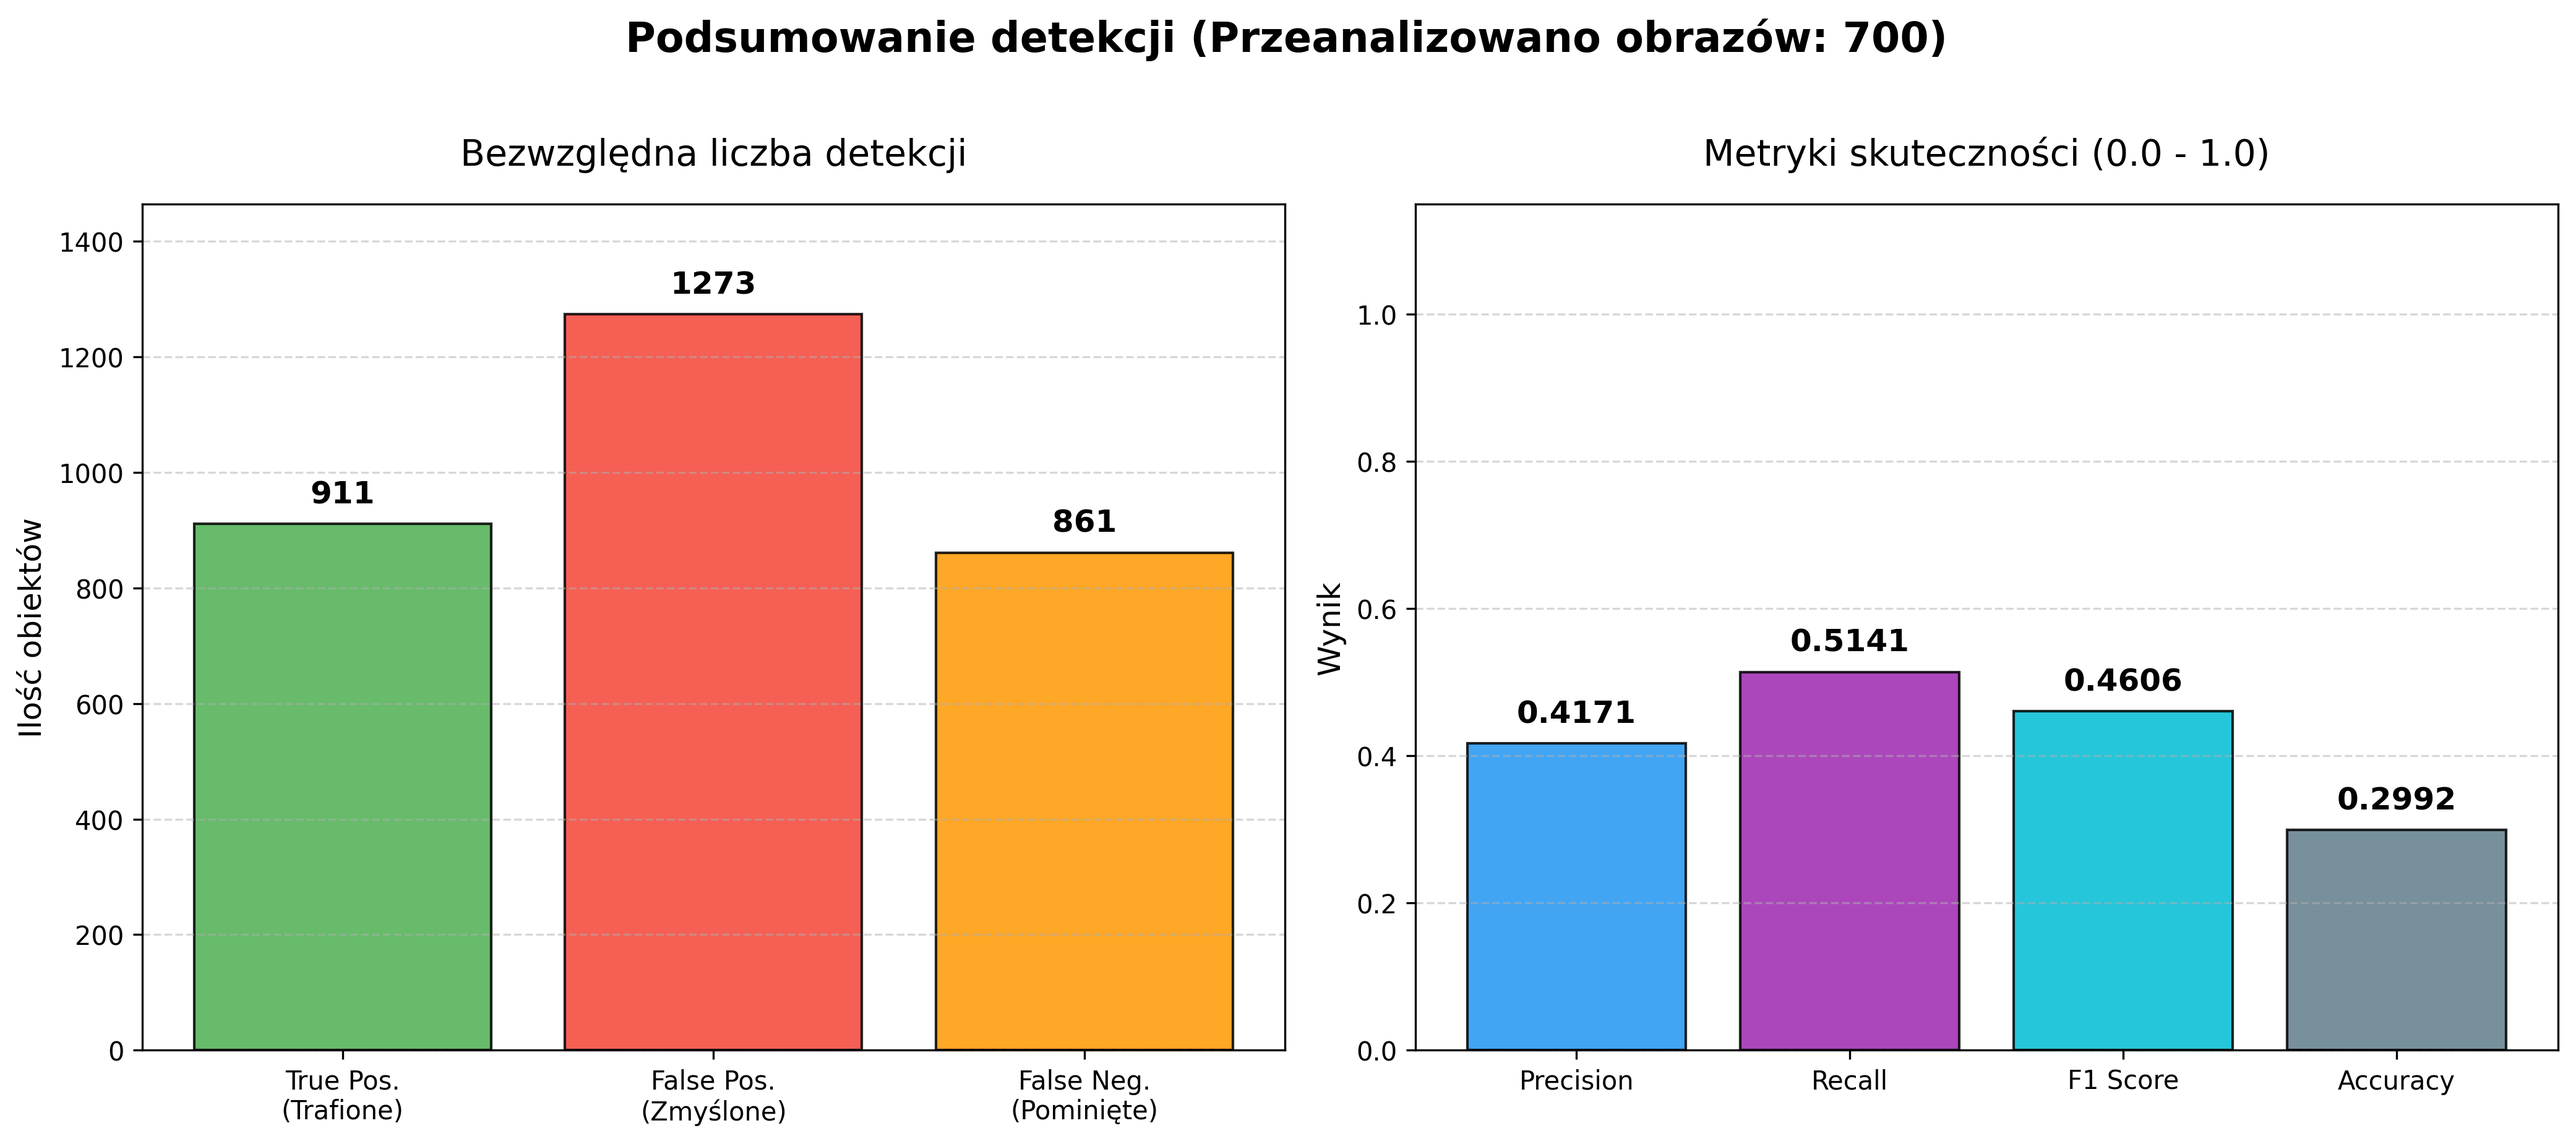
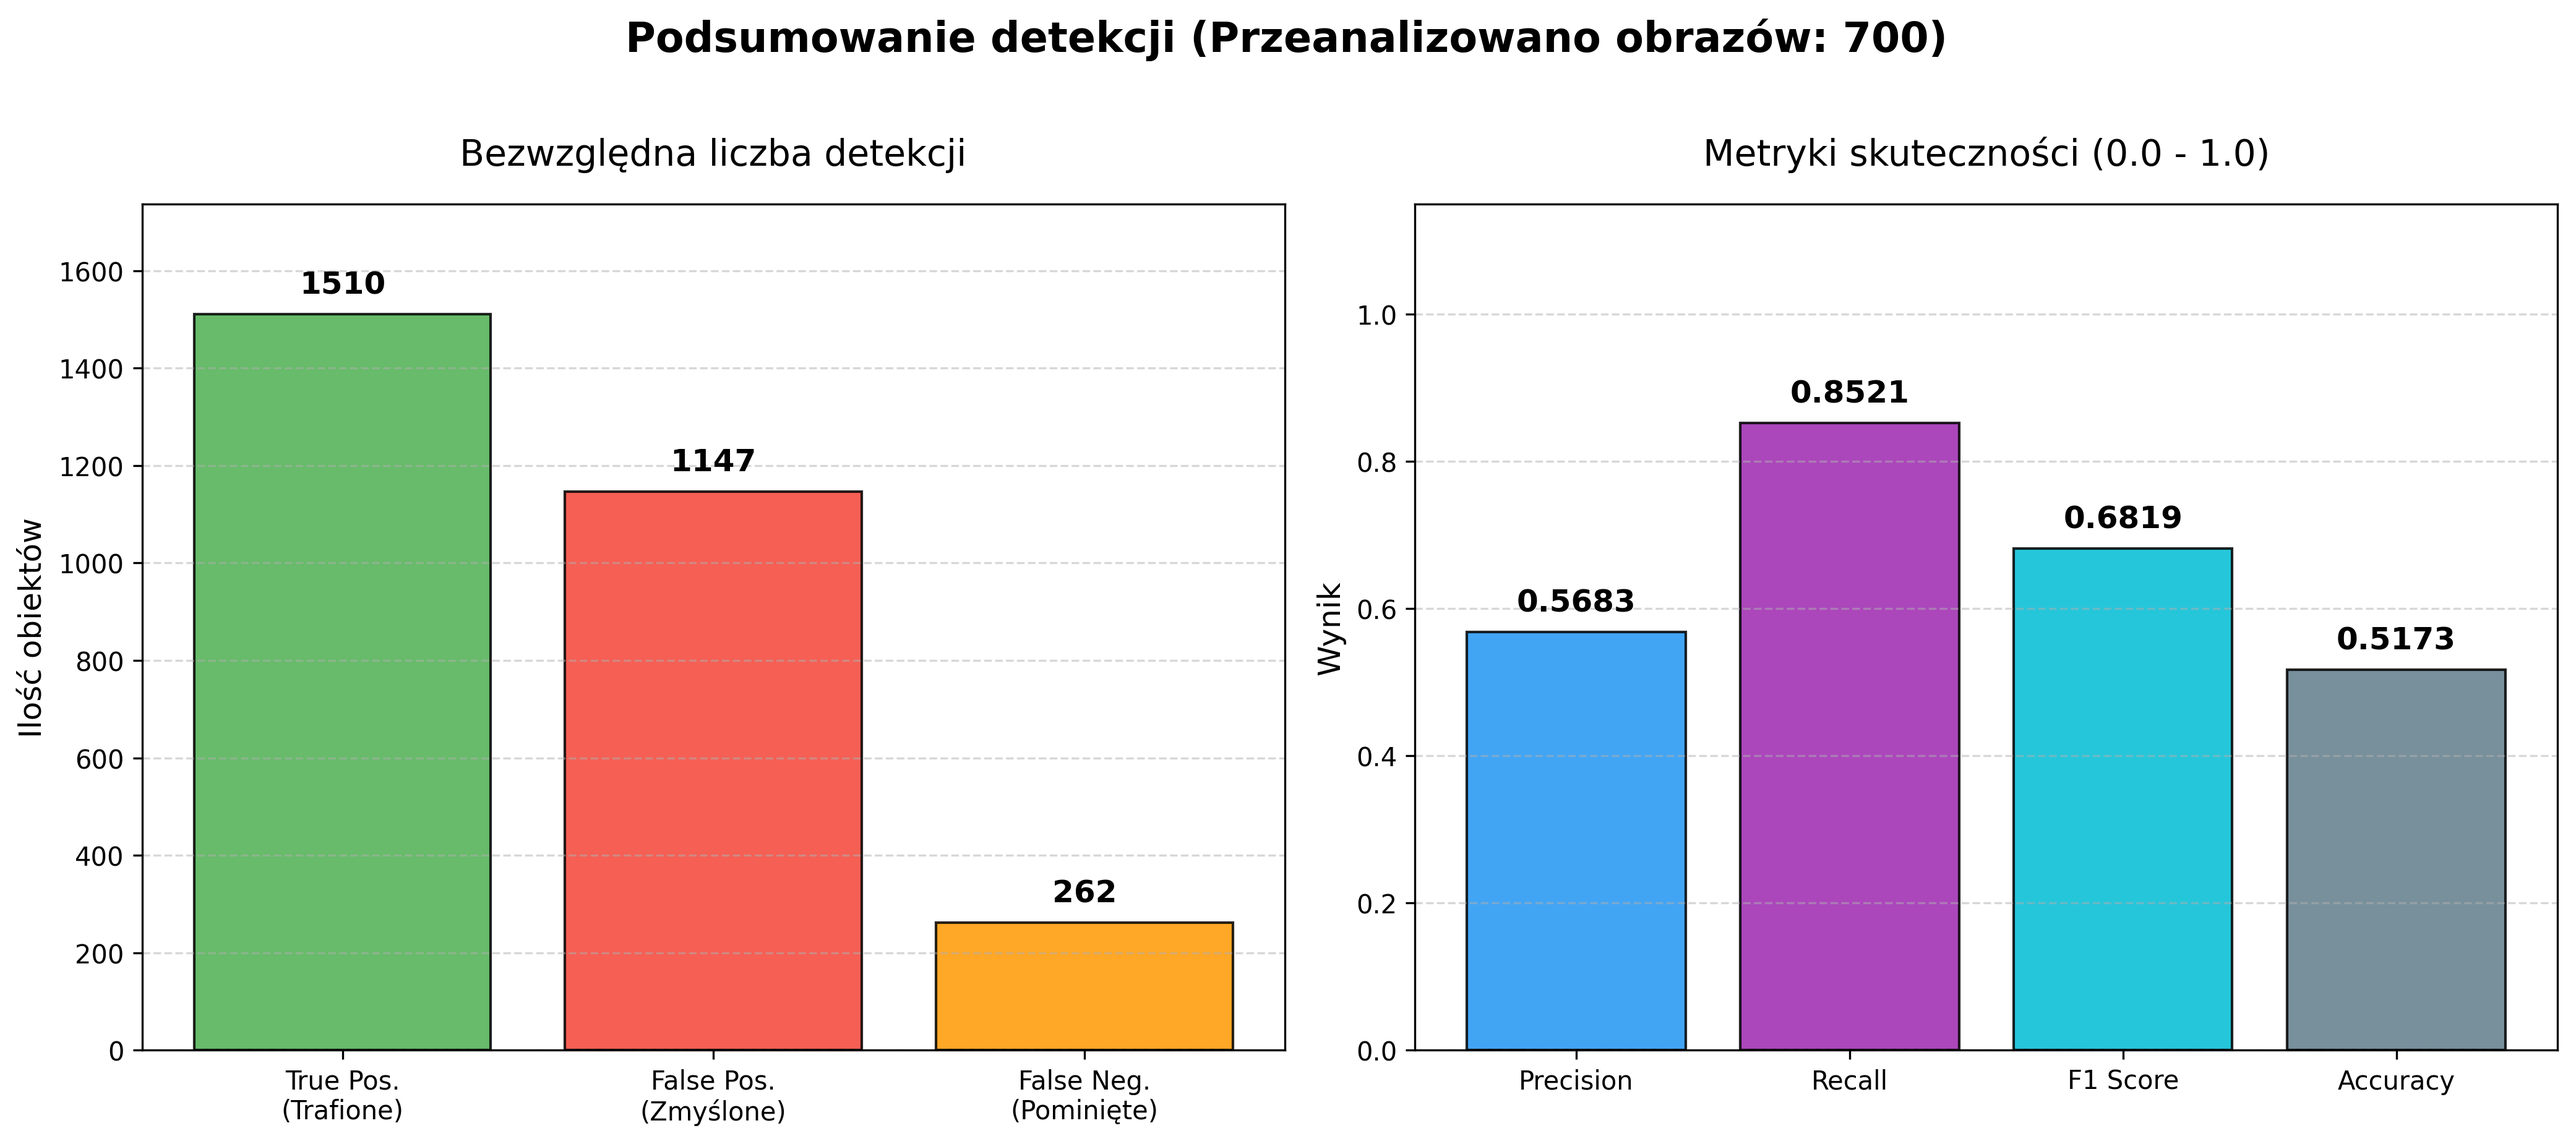
finished version of yolo

diff --git a/src/datasets/potholes_yolo.py b/src/datasets/potholes_yolo.py
@@ -9,6 +9,9 @@ from albumentations.pytorch import ToTensorV2
 
 from src.data_utils import parse_xmls 
 
+# ==========================================
+# 1. DATASET (Przetwarzanie pojedynczych obrazów)
+# ==========================================
 class PotholeDatasetYolo(torch.utils.data.Dataset):
     def __init__(self, df, img_size: int = 640, is_train: bool = True):
         self.df = df
@@ -16,11 +19,11 @@ class PotholeDatasetYolo(torch.utils.data.Dataset):
         self.img_size = img_size
         self.is_train = is_train
 
-        # Transformacje dla zbioru TRENINGOWEGO
+        # NAPRAWA WARNINGA: Zmiana `value=0` na `fill=0` i `border_mode=0`
         if self.is_train:
             self.transform = A.Compose([
                 A.LongestMaxSize(max_size=img_size),
-                A.PadIfNeeded(min_height=img_size, min_width=img_size, border_mode=cv2.BORDER_CONSTANT, value=0),
+                A.PadIfNeeded(min_height=img_size, min_width=img_size, border_mode=0, fill=0),
                 A.HorizontalFlip(p=0.5), 
                 A.RandomBrightnessContrast(p=0.5), 
                 A.MotionBlur(p=0.2), 
@@ -29,11 +32,10 @@ class PotholeDatasetYolo(torch.utils.data.Dataset):
                 ToTensorV2()
             ], bbox_params=A.BboxParams(format='pascal_voc', label_fields=['class_labels']))
             
-        # Transformacje dla zbioru WALIDACYJNEGO (tylko dopasowanie rozmiaru)
         else:
             self.transform = A.Compose([
                 A.LongestMaxSize(max_size=img_size),
-                A.PadIfNeeded(min_height=img_size, min_width=img_size, border_mode=cv2.BORDER_CONSTANT, value=0),
+                A.PadIfNeeded(min_height=img_size, min_width=img_size, border_mode=0, fill=0),
                 A.Normalize(mean=(0.0, 0.0, 0.0), std=(1.0, 1.0, 1.0), max_pixel_value=255.0),
                 ToTensorV2()
             ], bbox_params=A.BboxParams(format='pascal_voc', label_fields=['class_labels']))
@@ -47,24 +49,37 @@ class PotholeDatasetYolo(torch.utils.data.Dataset):
         img = cv2.imread(img_path)
         if img is None:
             img = np.zeros((self.img_size, self.img_size, 3), dtype=np.uint8)
+            orig_h, orig_w = self.img_size, self.img_size
         else:
             img = cv2.cvtColor(img, cv2.COLOR_BGR2RGB)
+            orig_h, orig_w = img.shape[:2]
 
         img_data = self.df[self.df["file"] == img_path]
         
         bboxes = []
         labels = []
         for _, row in img_data.iterrows():
-            bboxes.append([float(row['xmin']), float(row['ymin']), float(row['xmax']), float(row['ymax'])])
-            labels.append(int(row['label']))
+            xmin, ymin, xmax, ymax = float(row['xmin']), float(row['ymin']), float(row['xmax']), float(row['ymax'])
 
-        # Nakładanie augmentacji
-        transformed = self.transform(image=img, bboxes=bboxes, class_labels=labels)
+            # Obcinanie ramek wychodzących poza ekran
+            xmin = max(0.0, min(float(orig_w), xmin))
+            ymin = max(0.0, min(float(orig_h), ymin))
+            xmax = max(0.0, min(float(orig_w), xmax))
+            ymax = max(0.0, min(float(orig_h), ymax))
+
+            if xmax > xmin and ymax > ymin:
+                bboxes.append([xmin, ymin, xmax, ymax])
+                labels.append(int(row['label']))
+
+        if len(bboxes) == 0:
+            transformed = self.transform(image=img, bboxes=[], class_labels=[])
+        else:
+            transformed = self.transform(image=img, bboxes=bboxes, class_labels=labels)
+            
         img_tensor = transformed['image']
         transformed_bboxes = transformed['bboxes']
         transformed_labels = transformed['class_labels']
 
-        # Konwersja na format YOLO
         yolo_targets = []
         for bbox, cls_id in zip(transformed_bboxes, transformed_labels):
             xmin, ymin, xmax, ymax = bbox
@@ -82,6 +97,9 @@ class PotholeDatasetYolo(torch.utils.data.Dataset):
         return img_tensor, target_tensor
 
 
+# ==========================================
+# 2. DATA MODULE (Integracja z PyTorch Lightning i Fiddle)
+# ==========================================
 class PotholeDataModuleYOLO(L.LightningDataModule):
     def __init__(self, batch_size: int = 16, img_size: int = 640):
         super().__init__()
@@ -90,14 +108,11 @@ class PotholeDataModuleYOLO(L.LightningDataModule):
         self.data_path = None
 
     def prepare_data(self):
-        # Pobieranie danych (wykona się tylko raz, na jednym procesie)
         self.data_path = kagglehub.dataset_download("idanbaru/annotated-potholes-with-severity-levels")
 
     def setup(self, stage=None):
-        # Parsowanie XML
         df = parse_xmls(self.data_path)        
         
-        # Prosty podział zbioru na treningowy (80%) i walidacyjny (20%)
         images = df['file'].unique()
         split_idx = int(len(images) * 0.8)
         
@@ -107,16 +122,11 @@ class PotholeDataModuleYOLO(L.LightningDataModule):
         df_train = df[df['file'].isin(train_images)]
         df_val = df[df['file'].isin(val_images)]
         
-        # Tworzenie datasetów (is_train steruje augmentacjami)
         self.train_ds = PotholeDatasetYolo(df_train, img_size=self.img_size, is_train=True)
         self.val_ds = PotholeDatasetYolo(df_val, img_size=self.img_size, is_train=False)
 
     def collate_fn(self, batch):
-        """
-        Łączy pojedyncze przykłady w batch, którego spodziewa się v8DetectionLoss.
-        """
         images, targets = zip(*batch)
-        
         images = torch.stack(images)
         
         new_targets = []
@@ -142,7 +152,7 @@ class PotholeDataModuleYOLO(L.LightningDataModule):
             batch_size=self.batch_size, 
             collate_fn=self.collate_fn,
             shuffle=True,
-            num_workers=4, # Zmniejsz do 0 jeśli trenujesz na Windowsie i rzuca błędami "BrokenPipe"
+            num_workers=4, 
             pin_memory=True
         )
 

diff --git a/src/config/potholes_yolo.py b/src/config/potholes_yolo.py
@@ -20,7 +20,7 @@ def build_config():
     
     training_cfg = fdl.Config(
         schemas.TrainingConfig,
-        max_epochs=15,
+        max_epochs=30,
         wandb_logger=None,
         checkpoint_callback=None,
         callbacks=[]
